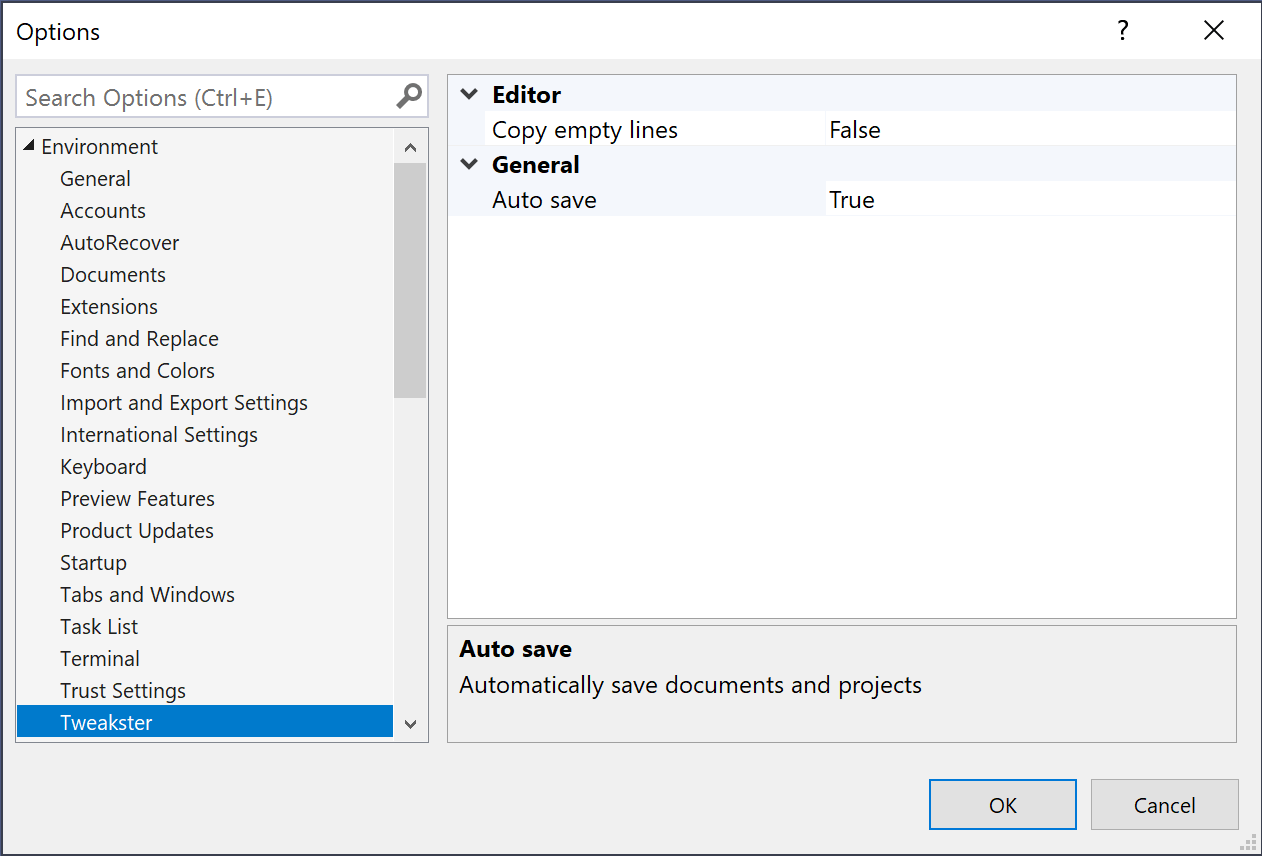
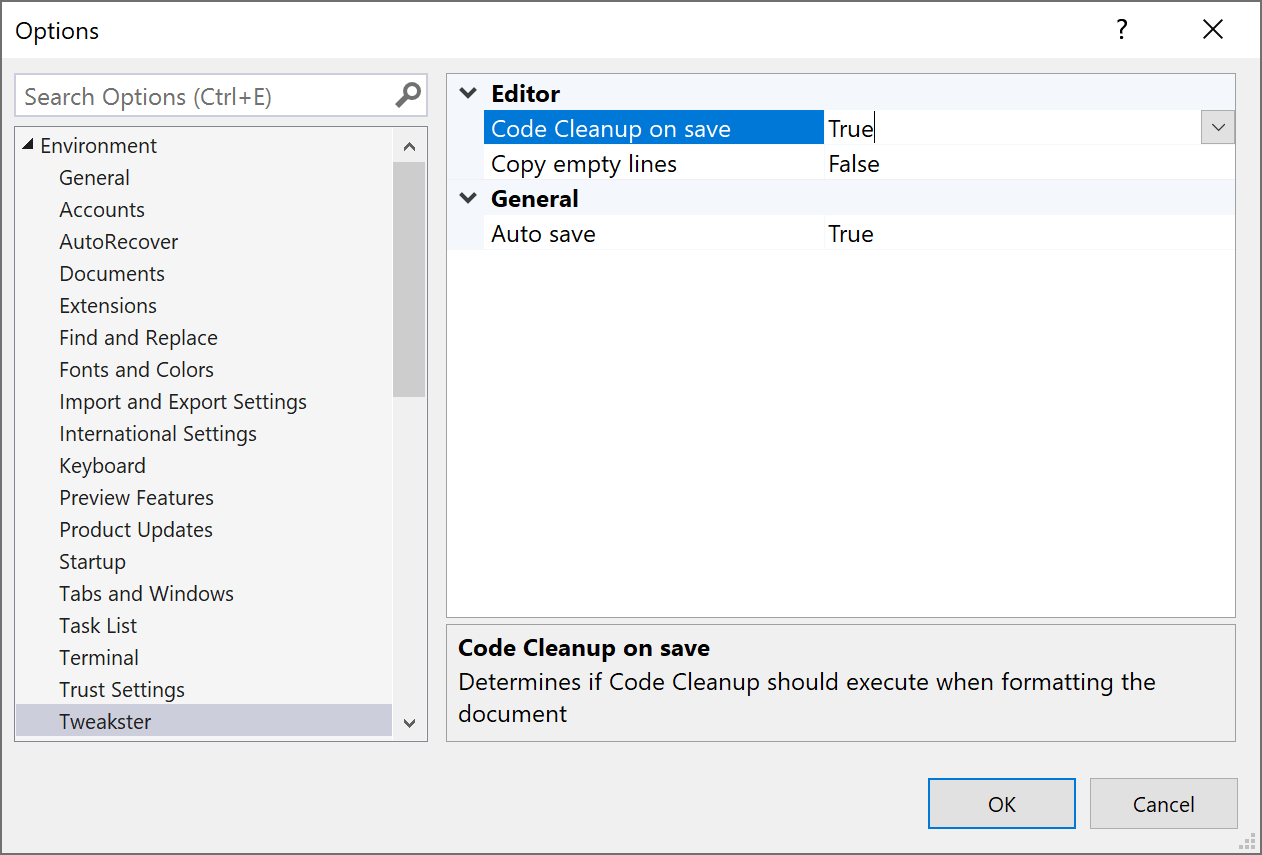
Added Code Cleanup on format document

diff --git a/src/Tweaks/CodeCleanupOnFormat/CodeCleanupOnFormat.cs b/src/Tweaks/CodeCleanupOnFormat/CodeCleanupOnFormat.cs
@@ -1,0 +1,51 @@
+using System;
+using System.ComponentModel.Composition;
+using System.Diagnostics;
+using Microsoft.VisualStudio.Commanding;
+using Microsoft.VisualStudio.Text.Editor;
+using Microsoft.VisualStudio.Text.Editor.Commanding;
+using Microsoft.VisualStudio.Text.Editor.Commanding.Commands;
+using Microsoft.VisualStudio.Utilities;
+
+namespace Tweakster.Tweaks.CodeCleanupOnFormat
+{
+    [Export(typeof(ICommandHandler))]
+    [Name(nameof(CodeCleanupOnFormat))]
+    [ContentType("Csharp")]
+    [ContentType("Basic")]
+    [TextViewRole(PredefinedTextViewRoles.PrimaryDocument)]
+    public class CodeCleanupOnFormat : ICommandHandler<FormatDocumentCommandArgs>
+    {
+        public string DisplayName => nameof(CodeCleanupOnFormat);
+
+        [Import]
+        private readonly IEditorCommandHandlerServiceFactory _commandService = default;
+
+        public bool ExecuteCommand(FormatDocumentCommandArgs args, CommandExecutionContext executionContext)
+        {
+            if (!Options.Instance.RunCodeCleanupOnFormat)
+            {
+                return false;
+            }
+
+            try
+            {
+                IEditorCommandHandlerService service = _commandService.GetService(args.TextView);
+
+                var cmd = new CodeCleanUpDefaultProfileCommandArgs(args.TextView, args.SubjectBuffer);
+                service.Execute((v, b) => cmd, null);
+            }
+            catch (Exception ex)
+            {
+                Trace.Write(ex);
+            }
+
+            return false;
+        }
+
+        public CommandState GetCommandState(FormatDocumentCommandArgs args)
+        {
+            return CommandState.Available;
+        }
+    }
+}

diff --git a/src/Tweaks/CodeCleanupOnFormat/Options.cs b/src/Tweaks/CodeCleanupOnFormat/Options.cs
@@ -1,0 +1,13 @@
+using System.ComponentModel;
+
+namespace Tweakster
+{
+    internal partial class Options : BaseOptionModel<Options>
+    {
+        [Category(Category.Editor)]
+        [DisplayName("Code Cleanup on save")]
+        [Description("Determines if Code Cleanup should execute when formatting the document")]
+        [DefaultValue(true)]
+        public bool RunCodeCleanupOnFormat { get; set; } = true;
+    }
+}
